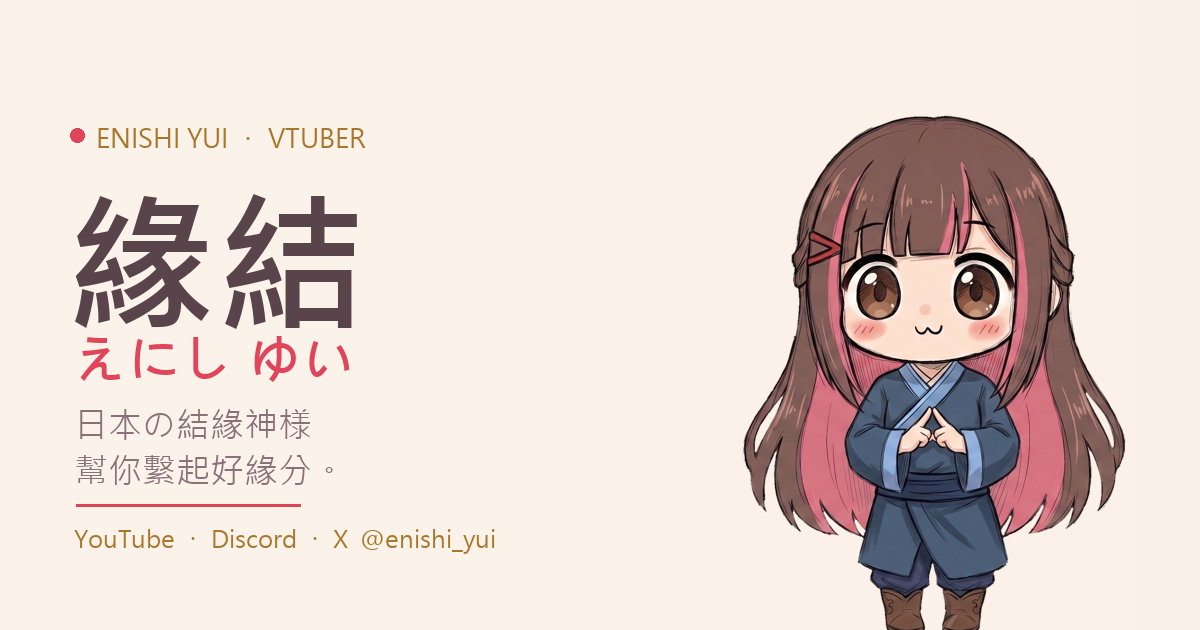
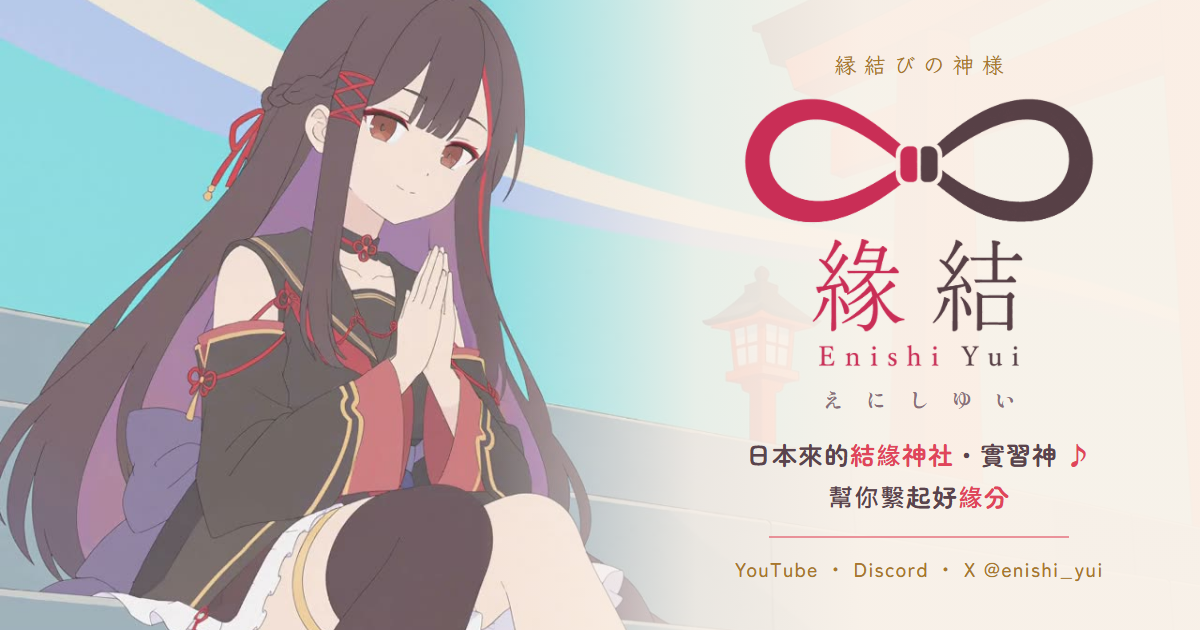
修 Safari 背景影片不循環＋分享預覽圖換成新版
- 背景影片改 MP4 先列（Safari 會挑 WebM，而它播 WebM 時 loop 不穩；MP4 也比較小）
- 加 ended／切回分頁時重播的保險
- og.png 重做成新 LOGO＋新背景（舊的是 7/3 的 Q 版圖，換 LOGO 時漏掉）
- og:image 加 ?v=20260922，讓 LINE／FB 等以圖片網址快取的平台重抓
- 新增 _tools/做預覽圖.py：以後換 LOGO 或背景重跑這支就好

diff --git a/index.html b/index.html
@@ -20,14 +20,14 @@
 <meta property="og:title" content="緣結 VTuber ｜ えにし ゆい">
 <meta property="og:description" content="日籍台 V・日本結緣神 VTuber 緣結（えにし ゆい），台日友好。幫你繫起好緣分。YouTube / Discord 都在這。">
 <meta property="og:url" content="https://enishiyui520.github.io/enishi-yui-site/">
-<meta property="og:image" content="https://enishiyui520.github.io/enishi-yui-site/assets/og.png">
+<meta property="og:image" content="https://enishiyui520.github.io/enishi-yui-site/assets/og.png?v=20260922">
 <meta property="og:image:width" content="1200">
 <meta property="og:image:height" content="630">
 <meta name="twitter:card" content="summary_large_image">
 <meta name="twitter:site" content="@enishi_yui">
 <meta name="twitter:title" content="緣結 VTuber ｜ えにし ゆい">
 <meta name="twitter:description" content="日籍台 V・日本結緣神 VTuber 緣結（えにし ゆい），台日友好。幫你繫起好緣分。">
-<meta name="twitter:image" content="https://enishiyui520.github.io/enishi-yui-site/assets/og.png">
+<meta name="twitter:image" content="https://enishiyui520.github.io/enishi-yui-site/assets/og.png?v=20260922">
 <script type="application/ld+json">
 {
   "@context": "https://schema.org",
@@ -46,7 +46,7 @@
       "alternateName": ["えにし ゆい", "Enishi Yui", "緣結 えにし ゆい"],
       "description": "日籍台 V・日本の結緣神 VTuber。台日友好。幫你繫起好緣分。",
       "url": "https://enishiyui520.github.io/enishi-yui-site/",
-      "image": "https://enishiyui520.github.io/enishi-yui-site/assets/og.png",
+      "image": "https://enishiyui520.github.io/enishi-yui-site/assets/og.png?v=20260922",
       "jobTitle": "VTuber",
       "sameAs": [
         "https://www.youtube.com/@EnishiYui",
@@ -248,8 +248,8 @@
 <!-- 背景循環影片（靜音、無 BGM）-->
 <div class="bgv" aria-hidden="true">
   <video autoplay muted loop playsinline preload="metadata" poster="assets/bg-poster.jpg" disablepictureinpicture>
-    <source src="assets/bg-loop.webm" type="video/webm">
     <source src="assets/bg-loop.mp4" type="video/mp4">
+    <source src="assets/bg-loop.webm" type="video/webm">
   </video>
 </div>
 
@@ -385,6 +385,14 @@
   document.addEventListener('keydown', function(e){ if(e.key==='Escape'&&lb.classList.contains('on')) close(); });
   // 滑鼠移入就先把大圖抓下來，點開不用等
   btn.addEventListener('mouseenter', function(){ if(!img.getAttribute('src')) img.setAttribute('src', SRC); }, {once:true});
+})();
+
+// 背景影片循環保險：Safari 偶爾不理 loop 屬性，播完停在最後一格；切回分頁也可能被暫停
+(function(){
+  var v=document.querySelector('.bgv video'); if(!v) return;
+  function play(){ var p=v.play(); if(p&&p.catch) p.catch(function(){}); }
+  v.addEventListener('ended', function(){ v.currentTime=0; play(); });
+  document.addEventListener('visibilitychange', function(){ if(!document.hidden&&v.paused) play(); });
 })();
 </script>
 </body>

diff --git a/_tools/做預覽圖.py b/_tools/做預覽圖.py
@@ -1,0 +1,74 @@
+# -*- coding: utf-8 -*-
+"""重做社群預覽圖 assets/og.png（1200x630，Telegram／LINE／X／FB 分享連結時出現的那張）。
+
+既有產線調查：本 repo 沒有做 og.png 的程式（7/3 那張是手做後直接 commit），
+全機也沒有緣結專用的預覽圖產線；所以這支是新建。直接吃網站自己的素材
+（assets/logo.png、assets/bg-poster.jpg）和網站同一組字型，換 LOGO 或背景之後重跑這支就會跟著變。
+
+用法：python _tools/做預覽圖.py
+"""
+import pathlib
+from playwright.sync_api import sync_playwright
+
+站 = pathlib.Path(__file__).resolve().parent.parent
+輸出 = 站 / "assets" / "og.png"
+
+HTML = """<!doctype html><html><head><meta charset="utf-8">
+<link href="https://fonts.googleapis.com/css2?family=Shippori+Mincho:wght@700;800&family=Zen+Maru+Gothic:wght@500;700&family=Klee+One:wght@600&display=swap" rel="stylesheet">
+<style>
+  *{margin:0;padding:0;box-sizing:border-box;}
+  html,body{width:1200px;height:630px;overflow:hidden;background:#fbf3ea;}
+  .bg{position:absolute;inset:0;background:url("BG") 0% 42%/1200px auto no-repeat;}
+  .wash{position:absolute;inset:0;background:linear-gradient(to right,
+      rgba(251,243,234,0) 0%, rgba(251,243,234,0) 40%, rgba(251,243,234,.82) 58%, rgba(251,243,234,.96) 72%);}
+  .card{position:absolute;left:684px;top:0;width:470px;height:630px;
+      display:flex;flex-direction:column;align-items:center;justify-content:center;color:#5a444c;}
+  .eyebrow{font-family:"Klee One";font-size:22px;letter-spacing:.34em;color:#a9772b;margin-bottom:14px;padding-left:.34em;}
+  .logo{width:360px;height:auto;display:block;}
+  .furi{font-family:"Shippori Mincho";font-weight:700;font-size:21px;letter-spacing:1.05em;color:#8a7079;margin:12px 0 22px;padding-left:1.05em;}
+  .tag{font-family:"Zen Maru Gothic";font-weight:700;font-size:25px;letter-spacing:.04em;}
+  .tag .r{color:#e0455a;}
+  .rule{width:300px;height:2px;background:#e0455a;opacity:.55;margin:22px 0 16px;}
+  .links{font-family:"Zen Maru Gothic";font-weight:500;font-size:20px;color:#a9772b;letter-spacing:.06em;}
+</style></head><body>
+<div class="bg"></div><div class="wash"></div>
+<div class="card">
+  <div class="eyebrow">縁結びの神様</div>
+  <img class="logo" src="LOGO">
+  <div class="furi">えにしゆい</div>
+  <div class="tag">日本來的<span class="r">結緣神社</span>・實習神 <span class="r">♪</span></div>
+  <div class="tag" style="margin-top:6px">幫你繫起好<span class="r">緣分</span></div>
+  <div class="rule"></div>
+  <div class="links">YouTube ・ Discord ・ X @enishi_yui</div>
+</div>
+</body></html>"""
+
+
+def main():
+    html = (HTML.replace("BG", (站 / "assets" / "bg-poster.jpg").as_uri())
+                .replace("LOGO", (站 / "assets" / "logo.png").as_uri()))
+    暫存 = 站 / "_tools" / "_og_render.html"
+    暫存.write_text(html, encoding="utf-8")
+    try:
+        with sync_playwright() as p:
+            b = p.chromium.launch()
+            pg = b.new_page(viewport={"width": 1200, "height": 630})
+            pg.goto(暫存.as_uri(), wait_until="networkidle")
+            pg.evaluate("document.fonts.ready")
+            # 每一行字用它自己的字型、自己的文字檢查（CJK 字型按字切包，只會載到用得到的字）
+            缺字型 = pg.evaluate("""[...document.querySelectorAll('.card div')]
+                .filter(e => e.textContent.trim())
+                .filter(e => { const s = getComputedStyle(e);
+                    return !document.fonts.check(s.fontWeight + ' 20px ' + s.fontFamily, e.textContent); })
+                .map(e => getComputedStyle(e).fontFamily + '：' + e.textContent.trim())""")
+            if 缺字型:
+                raise SystemExit(f"字型沒載到（沒網路？）：{缺字型}，不出圖")
+            pg.screenshot(path=str(輸出))
+            b.close()
+    finally:
+        暫存.unlink(missing_ok=True)
+    print(f"已輸出 {輸出}")
+
+
+if __name__ == "__main__":
+    main()
